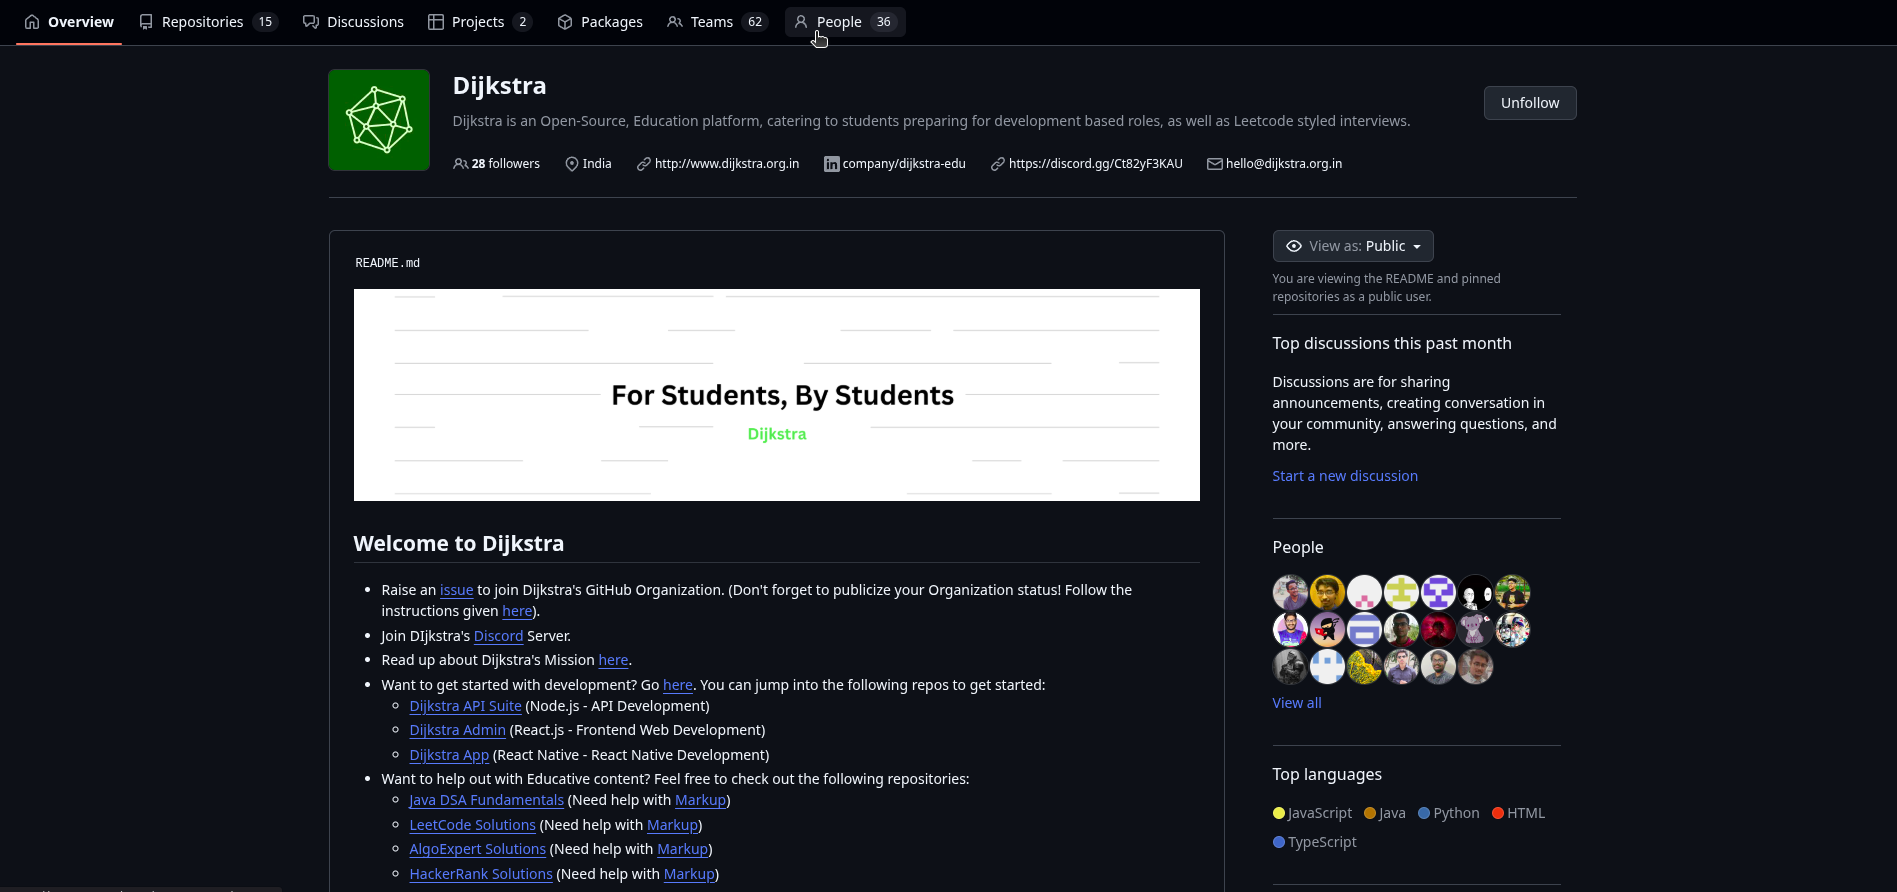
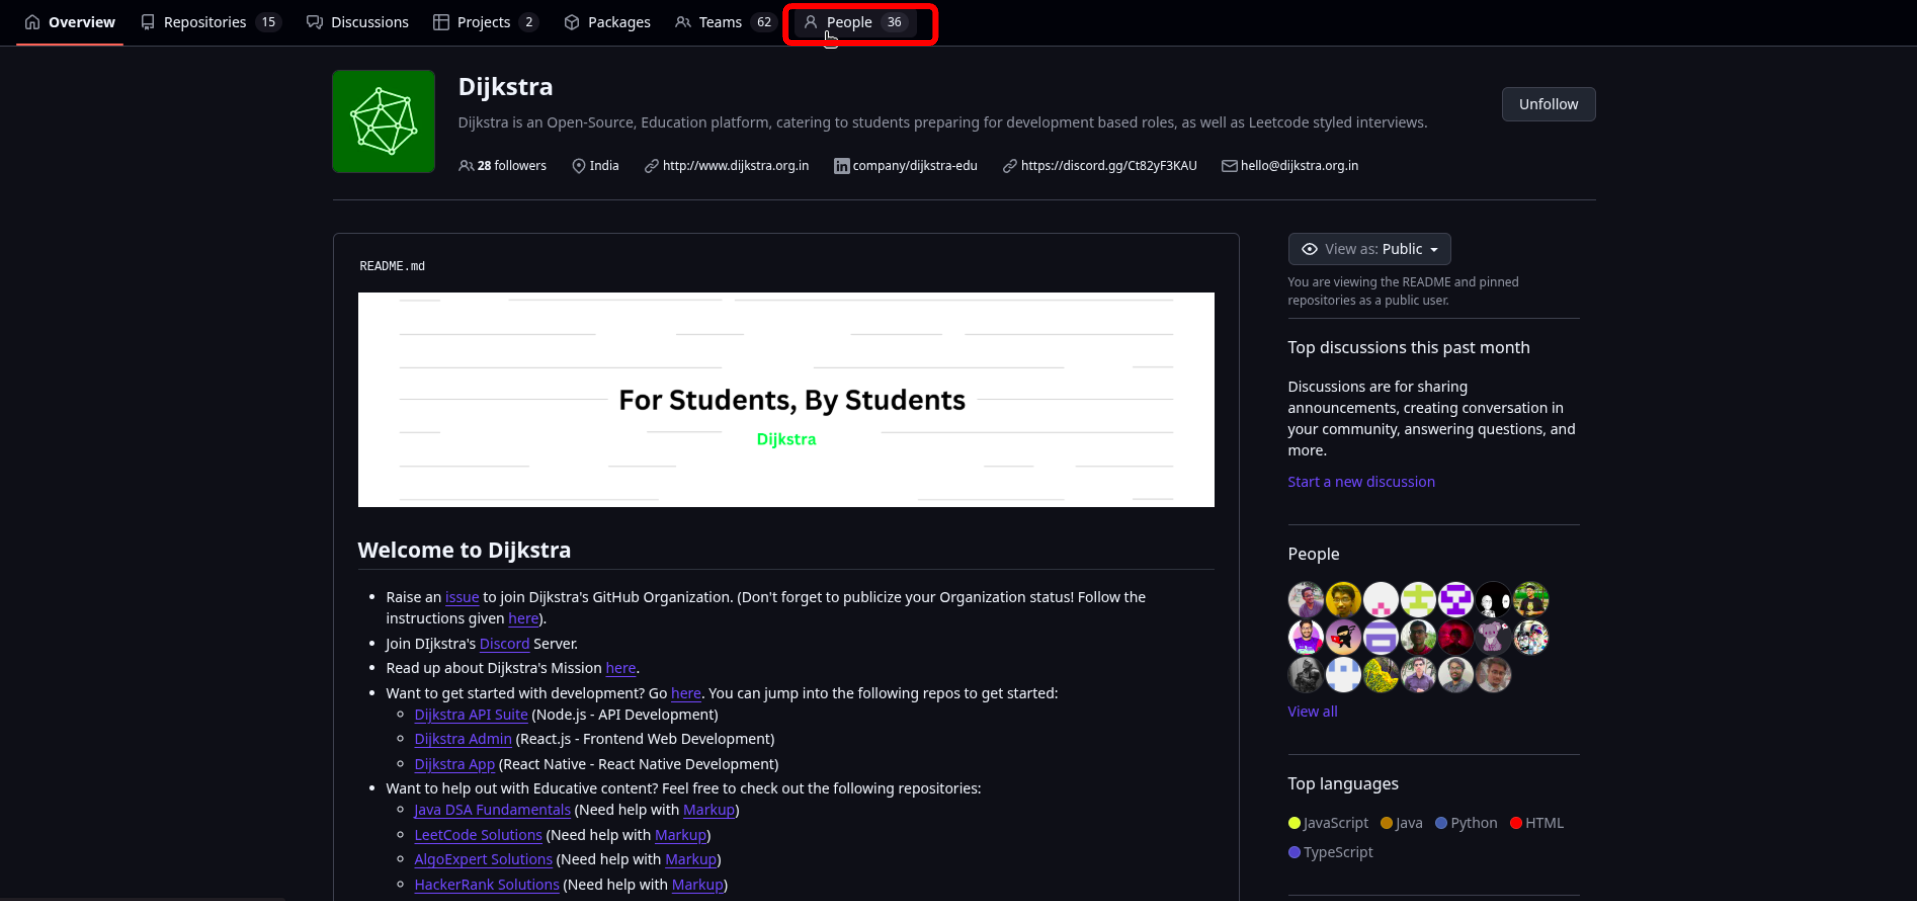
Docs: fix images and add more context

diff --git a/src/content/docs/guides/join-djikstra.md b/src/content/docs/guides/join-djikstra.md
@@ -3,34 +3,35 @@ title: Join Djikstra
 description: A guide To join the djikstra organization on github.
 ---
 
-This Guide will provide you with the step by step procedure to join the Djikstra organisation on GitHub
+If you want to contribute to Djikstra and want to be a member of Djikstra on GitHub, simply follow this step-by-step guide to become a member of our organization.
 
 ## Create an issue
 
-Go to this [link](https://github.com/Dijkstra-Edu/Support/issues/new?assignees=&labels=Join+Dijkstra&projects=&template=join-dijkstra.md&title=%5BJoin+Dijkstra%5D) and click on the create issue button.
+<a href="https://github.com/Dijkstra-Edu/Support/issues/new?assignees=&labels=Join+Dijkstra&projects=&template=join-dijkstra.md&title=%5BJoin+Dijkstra%5D" target="_blank">Click on this link</a> to go to a GitHub page to create an issue regarding joiinig Djikstra's Github organisation. The page will prompt you to add a title and description to the issue, however these are not necessary and you may leave them blank. You will notice the green coloured 'Create' button at the bottom, click on this button.
 
-![Create Issue](/images/join-djikstra/create_issue.png)
+![Github for creating an issue with the create button highlighted](/images/join-djikstra/create_issue.png)
 
-Once the issue has been created, wait for some time and you will receive an automated reply.
+Once the issue has been created, wait for some moments until you receive an automated reply from a bot. This reply indicates that an invitation to join Djikstra has been sent to your account. 
 
-![Reply Received](/images/join-djikstra/reply_received.png)
+![Bot reply to a join djikstra issue saying that an invitaion has been sent](/images/join-djikstra/reply_received.png)
 
-## Go to Organisations
+## Go to Organizations
 
-After receving the automated reply click on the your profile icon on the top right of the screen to open GitHub's sidebar, here you can notice the 'Your Organisations' option. Click on it to view the invitation sent to you to join Djikstra's organization.
+After receving the automated reply click on the your profile icon on the top right of the screen to open GitHub's sidebar, here you can notice the 'Your Organizations' option. Click on it to view the invitation sent to you to join Djikstra's organization.
 
-![Go to Organizations](/images/join-djikstra/go_to_organization.png)
+![Organization option highlighted in GitHub sidebar](/images/join-djikstra/go_to_organization.png)
 
-## Click on Accept
+## Click on 'Accept'
 
-After following the above steps you will be led to the 'Organizations' page where you will notice an invitaion to join Djikstra's organization. Click on the 'Accept' button.
+After following the above steps you will be led to the 'Organizations' page for your GitHub account where any organizations you are a part of or any pending invitation requests will appear. You will notice an invitaion to join Djikstra's organization over here. Click on the 'Accept' button to expand this invitation.
 
-![Click on Accept](/images/join-djikstra/click_on_accept.png)
+![Accept button highlighted for Djikstra's invitation](/images/join-djikstra/click_on_accept.png)
 
-## Click on Join Djikstra
+## Click on 'Join Djikstra'
 
-This will open the invitation page, simply click on the 'Join Djikstra' button to finally join Djikstra's organization.
+The invitation for Djikstra will open in new page. This page will mention that you have been invited to join Djikstra. You will notice the green button labelled 'Join Djikstra' at the bottom of the invitation. Click on this button to finally become a member of Djikstra on Github. 
 
-![Click on Join](/images/join-djikstra/click_on_join.png)
+![Join Djikstra button highlighted on the invitaion page](/images/join-djikstra/click_on_join.png)
 
-
+[//]: <> (author: Vatsal Ojha)
+[//]: <> (Last Edited: 7/9/2025)

diff --git a/src/content/docs/guides/publicise-status.md b/src/content/docs/guides/publicise-status.md
@@ -7,20 +7,38 @@ Now that you have joined Djikstra on GitHub, you can publicise your organization
 
 ## Go to Djikstra's Page
 
-Click on this [link](https://github.com/Dijkstra-Edu) to go to Djikstra's GitHub Page
+For the first step, <a href="https://github.com/Dijkstra-Edu" target="_blank">click on this link</a> to go to Djikstra's GitHub Page.
+
+
 
 ## Go to People
 
-On the top bar of Djikstra's GitHub Page, click on the 'people' tab. This will redirect you to a page with a list of all of Djikstra's members.
+On the top bar of Djikstra's GitHub Page, youw will notice several tabs. Click on the 'people' tab which is rightmost tab among these. This will redirect you to a page with a list of all of Djikstra's members.
 
-![Go to People](/images/publicise-status/go_to_people.png)
+![People tab highlighted on Djikstra's GitHub page](/images/publicise-status/go_to_people.png)
 
 ## Navigate to Your Name
 
-Scroll through the list to find your GitHub profile among the many names in the list.
+On this page, all the members of Djikstra on GitHub will be listed. If you have followed the previous guide and had successfully joined Djikstra, then your account will also be in this list. Scroll through this list and find your GitHub account for the next step.
+
+
+## Click on 'Private'
+
+Once you have found your name, to the right your name, you will notice 'Private' written along with drop down arrow. Click on 'Private' to open a the drop down menu.
+
+![](/images/publicise-status/click-on-private.png)
 
 ## Change Organization Visibility
 
-Once you have found your name in the list, you will notice your organization status to the right accompanied by a drop down arrow. Click on the arrow to have two options revealed and then simply click on the 'Public' option to finally publicise your organization status.
+Once the drop down menu opens, you will notice two options, a 'Public' option and a 'Private' option with a check mark next to it. The check mark indicates that your current organization status is private. Click on the 'Public' option to finally publicise your organization status. If there is already a check mark next to the public option, it means that your organization status is already public. 
 
 ![Switch to Public](/images/publicise-status/switch_to_public.png)
+
+## Confirm Publicisation
+
+Once you have clicked on the 'Public' option, you will notice a notification from github at the top the page indicating that your organization status has been successfully changed.
+
+![](/images/publicise-status/confirm-publicisation.png)
+
+[//]: <> (author: Vatsal Ojha)
+[//]: <> (Last Edited: 7/9/2025)
